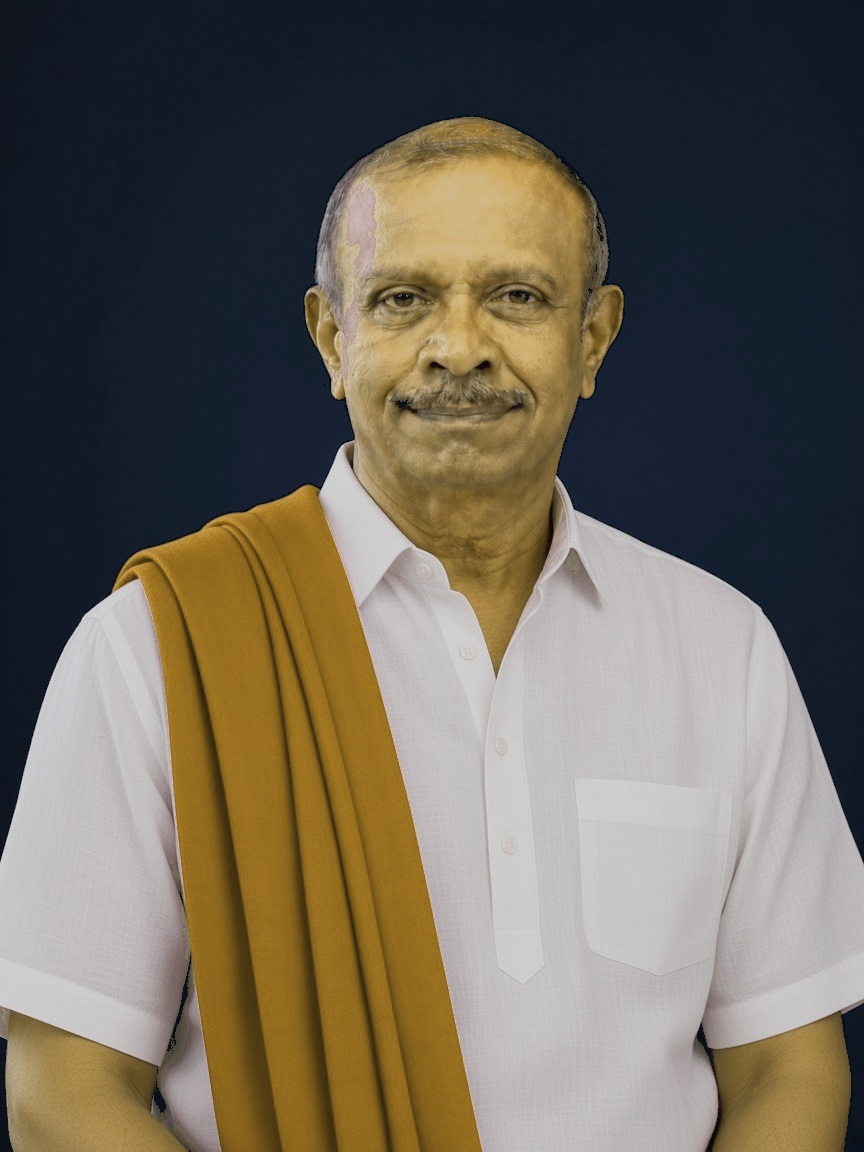
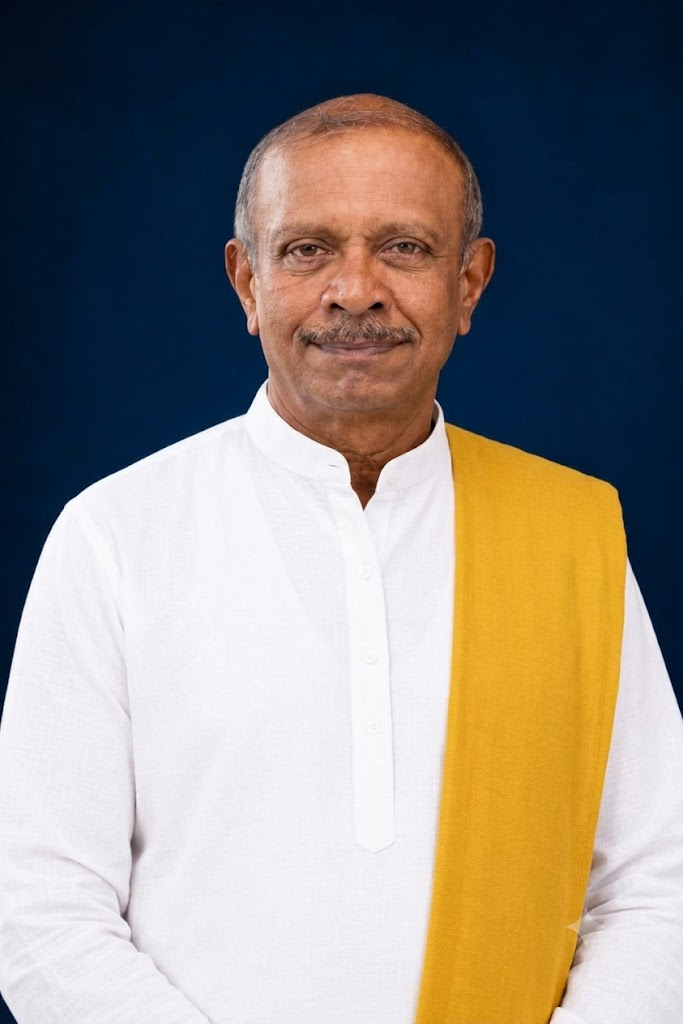
Show Gnanasiriyar Selvin label and portrait on Balasubramanian founder card

diff --git a/src/config/images.js b/src/config/images.js
@@ -114,7 +114,7 @@ const catalog = {
   sidebarPost3: [`${V}/sidebar-post-3.jpg`],
 };
 
-const VETHAM_ASSET_VERSION = 'founders-revert-customer-upload-v1';
+const VETHAM_ASSET_VERSION = 'founders-balasubramanian-selvin-portrait-v1';
 
 export function img(key) {
   const entry = catalog[key];

diff --git a/src/config/site.js b/src/config/site.js
@@ -67,6 +67,7 @@ export const TEAM = [
   },
   {
     name: 'Gnanasiriyar Balasubramanian',
+    displayName: 'Gnanasiriyar Selvin',
     role: 'Co-Founder & Secretary',
     image: 'trustee3Pro',
     portrait: 'portraitSecretary',
